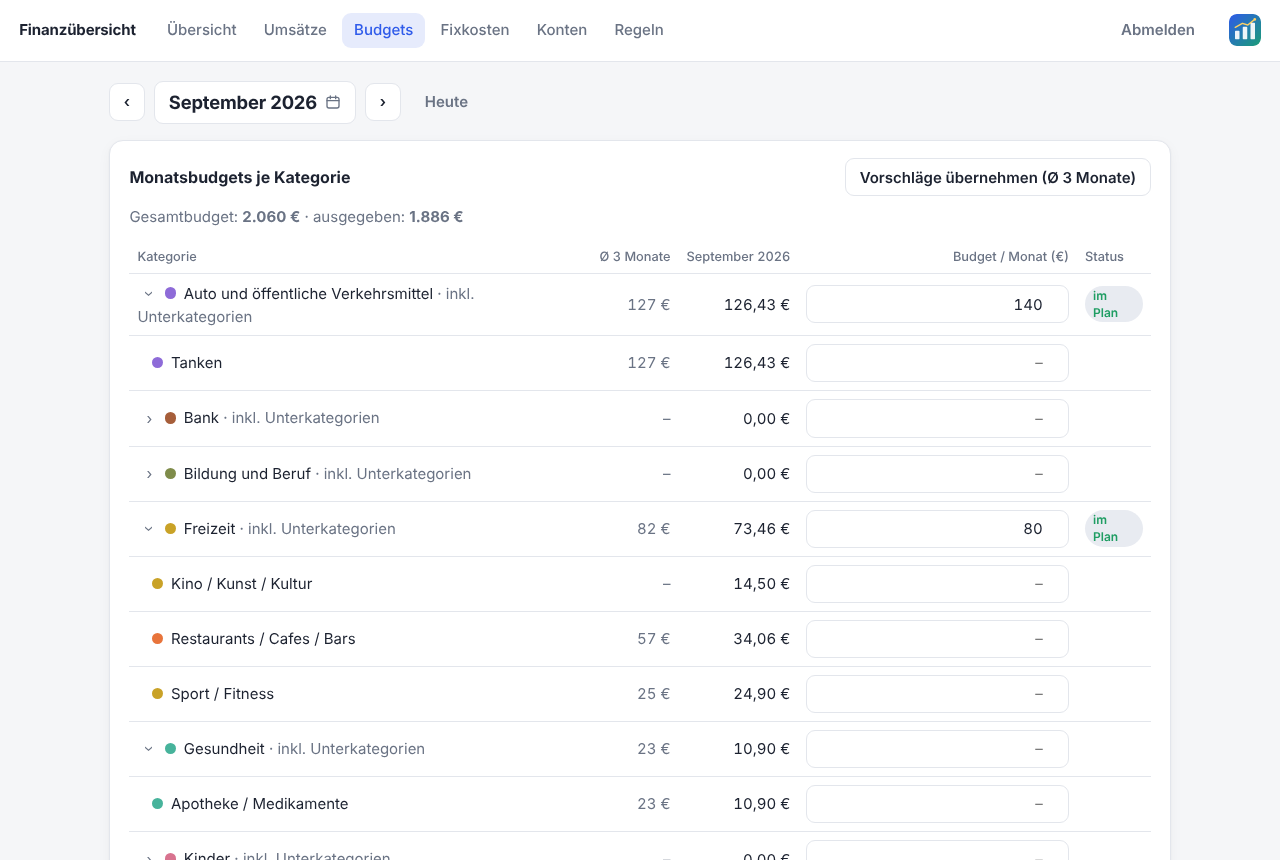
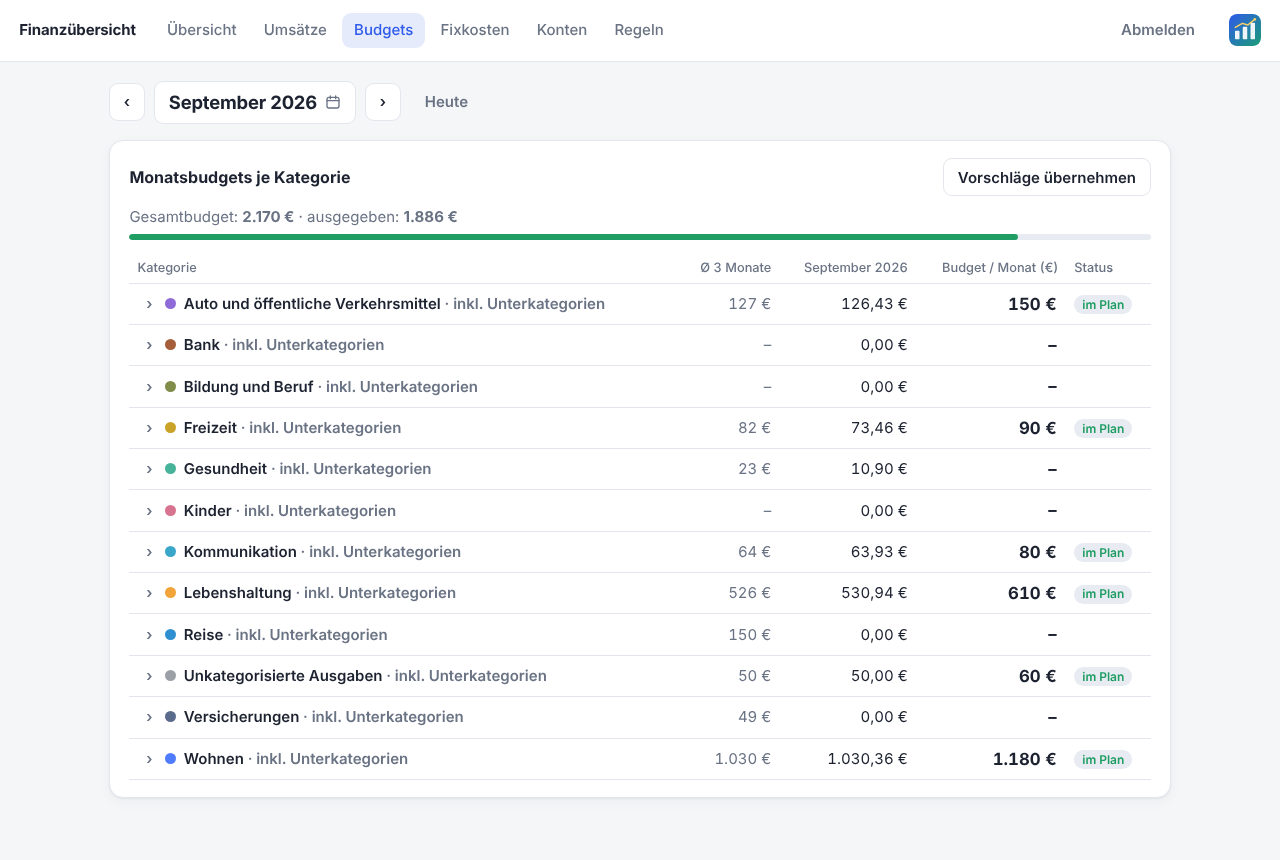
README: Screenshots aktualisiert (neue Umsatz-Markierung, Budgets mobil)
Claude-Session: https://claude.ai/code/session_01H7YWzu5cSnZVFrw44mHoj8

diff --git a/README.md b/README.md
@@ -17,11 +17,12 @@ Alle Bilder zeigen frei erfundene Beispieldaten (`fintrack/tests/samples/`).
 | **Fixkosten** | **Konten** |
 | ![Fixkosten](docs/screenshots/desktop-fixkosten.png) | ![Konten](docs/screenshots/desktop-konten.png) |
 
-Mobil optimiert (Burger-Menü, Datepicker für Monat oder ganzes Jahr, Konten als Tags):
+Mobil optimiert (Burger-Menü, Datepicker für Monat oder ganzes Jahr, Konten als Tags, neue Umsätze mit grünem Punkt, kompakte Budgets mit Fortschrittsbalken):
 
 <p>
 <img src="docs/screenshots/mobil-uebersicht.png" width="260" alt="Übersicht mobil">
 <img src="docs/screenshots/mobil-umsaetze.png" width="260" alt="Umsätze mobil">
+<img src="docs/screenshots/mobil-budgets.png" width="260" alt="Budgets mobil">
 <img src="docs/screenshots/mobil-menue.png" width="260" alt="Menü mobil">
 </p>
 
